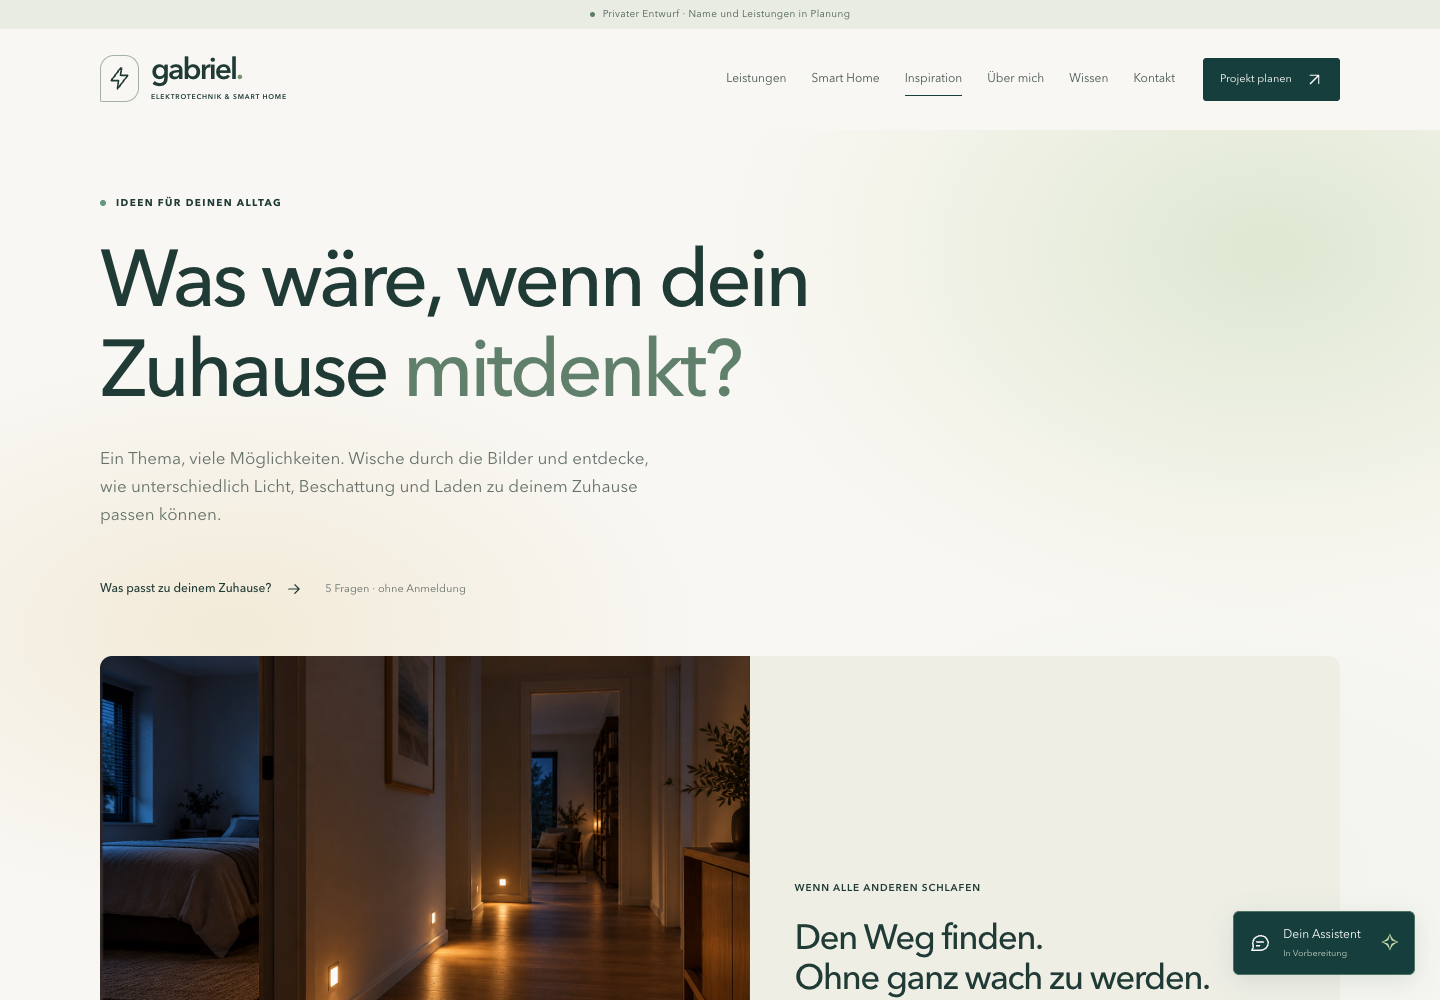
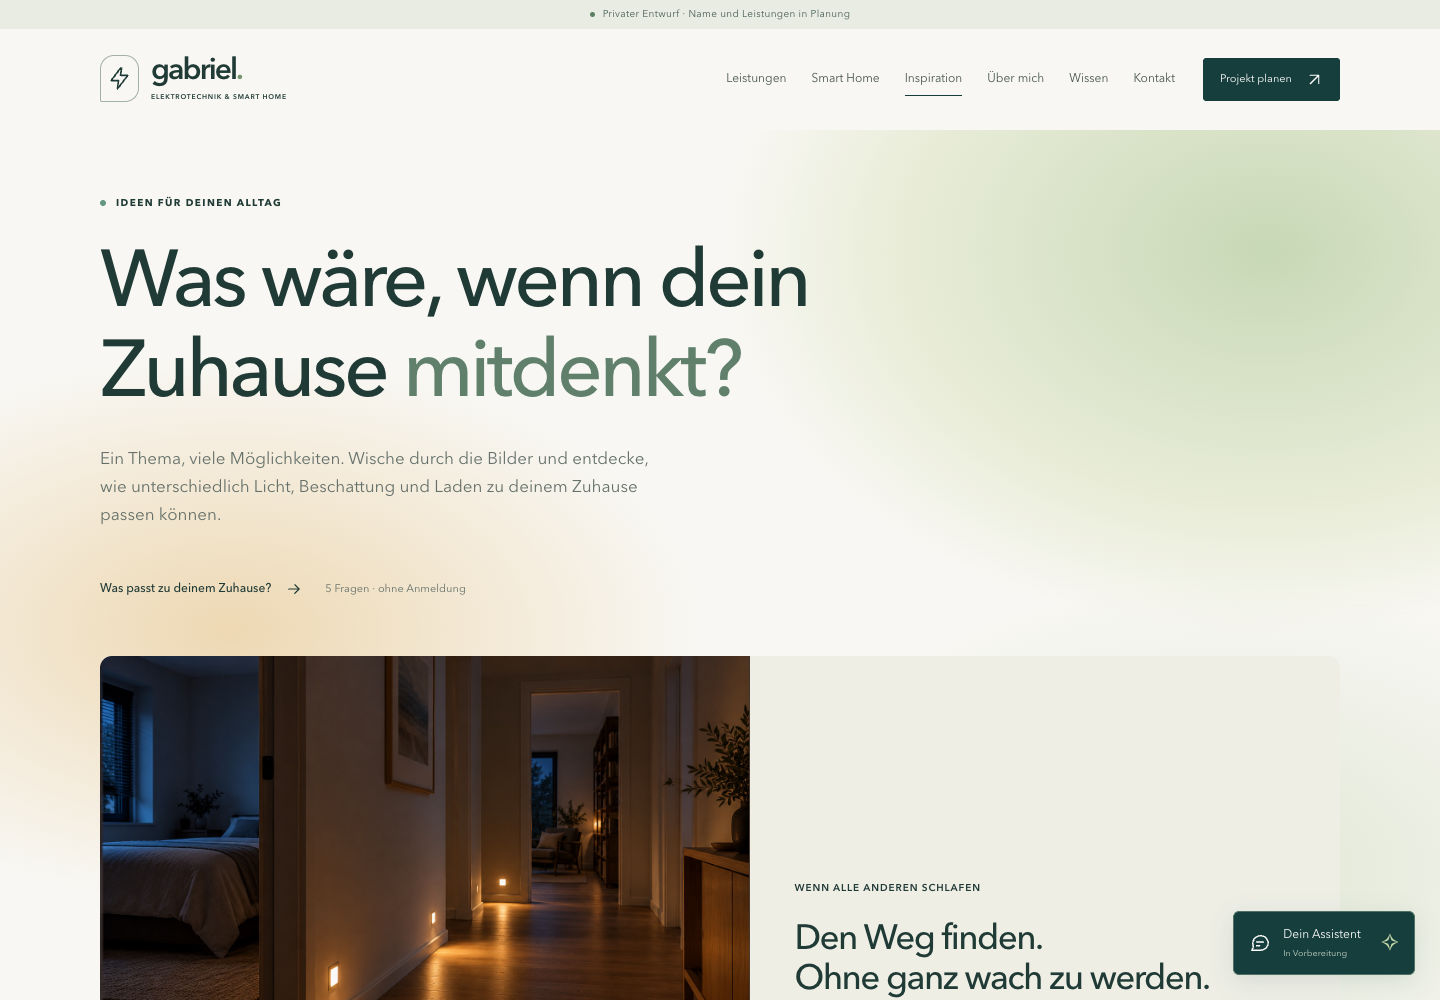
Hintergrundschein sichtbar verstaerken und warme Lichtwirkung betonen

Changed region(s): [[0.7812, 0.155, 1.0, 0.372], [0.0312, 0.527, 0.2812, 0.682]]

diff --git a/public/assets/ambience.css b/public/assets/ambience.css
@@ -11,16 +11,16 @@
   z-index: -1;
   pointer-events: none;
   background:
-    radial-gradient(ellipse 680px 480px at 88% 120px, #cbdcbb94, #e6e8cc38 56%, transparent 80%),
-    radial-gradient(ellipse 620px 360px at 16% 500px, #ecdbb773, transparent 76%),
-    radial-gradient(ellipse 600px 380px at 85% 740px, #dbe6d23b, transparent 76%);
+    radial-gradient(ellipse 680px 480px at 88% 120px, #b8cfa3c2, #d6dfb56b 56%, transparent 80%),
+    radial-gradient(ellipse 620px 360px at 16% 500px, #e7c58b9e, transparent 76%),
+    radial-gradient(ellipse 600px 380px at 85% 740px, #bfd1aa6b, transparent 76%);
 }
 @media (max-width: 700px) {
   .has-page-ambience::before {
     background:
-      radial-gradient(ellipse 390px 400px at 92% 120px, #cbdcbb8c, transparent 80%),
-      radial-gradient(ellipse 360px 310px at 3% 580px, #ecdbb773, transparent 80%),
-      radial-gradient(ellipse 350px 320px at 90% 850px, #dbe6d238, transparent 80%);
+      radial-gradient(ellipse 390px 400px at 92% 120px, #b8cfa3bd, transparent 80%),
+      radial-gradient(ellipse 360px 310px at 3% 580px, #e7c58b9e, transparent 80%),
+      radial-gradient(ellipse 350px 320px at 90% 850px, #bfd1aa67, transparent 80%);
   }
 }
 @media (prefers-reduced-motion: no-preference) {

diff --git a/docs/PROJEKTSTAND.md b/docs/PROJEKTSTAND.md
@@ -4,6 +4,8 @@ Stand: 30.10.2026 · einheitlicher Hintergrundschein auf allen Unterseiten
 
 ## Einheitlicher Hintergrundschein (30.10.2026)
 
+- Nach Gabriels Rückmeldung die zunächst zu schwache Wirkung verstärkt: sichtbareres Salbeigrün und warmes Champagnerlicht durch kräftigere Farbtöne und höhere Deckkraft auf Desktop und Mobil. Ausdehnung, Einblendung und ruhiges Verhalten bleiben erhalten. Farbkorrektur mit Build, Verweisen, Layout und aktualisierten Ansichten geprüft; kein erneuter vollständiger Browser-Testlauf nur für die Farbwerte.
+
 - Gabriels Wunsch: die sanfte Hintergrundbeleuchtung auch auf Inspiration, Über mich, Wissen und den übrigen Seiten einsetzen, damit der Auftritt zusammenpasst.
 - Zentraler warmer und salbeigrüner Lichtschein auf allen 17 Unterseiten einschließlich Leistungsdetails, Kontakt und Hinweisseiten. Die Startseite behält ihr bestehendes pausierbares Lichtspiel. Eigene Lichtebenen auf Wissen und im Planer durch den gemeinsamen Effekt ersetzt.
 - Reine CSS-Darstellung, hinter den Inhalten und ohne Einfluss auf Klicks oder Layout. Eine Einblendung von 2,8 Sekunden, danach statisch; bei reduzierter Bewegung direkt statisch. Auch ohne JavaScript sichtbar. Auf Mobil angepasste Ausdehnung, kein seitlicher Überlauf.

diff --git a/docs/HINTERGRUNDLICHT.md b/docs/HINTERGRUNDLICHT.md
@@ -2,7 +2,7 @@
 
 Stand: 30.10.2026
 
-Gabriel möchte den warmen, leicht beleuchteten Auftritt auf allen Seiten wiederfinden. Alle Unterseiten verwenden deshalb einen gemeinsamen salbeigrünen und warmen Hintergrundschein im oberen Seitenbereich. Der Schein läuft nach unten weich aus; Bilder und Karten behalten ihre eigenen Farben.
+Gabriel möchte den warmen, leicht beleuchteten Auftritt auf allen Seiten wiederfinden. Alle Unterseiten verwenden deshalb einen gemeinsamen salbeigrünen und warmen Hintergrundschein im oberen Seitenbereich. Der Schein läuft nach unten weich aus; Bilder und Karten behalten ihre eigenen Farben. Nach Gabriels Rückmeldung wurden Farbstärke und Deckkraft angehoben: erkennbareres Salbeigrün und warmes Champagnerlicht bei unverändert weichen Übergängen.
 
 `src/components.mjs` lädt auf Unterseiten `public/assets/ambience.css` und setzt `has-page-ambience` am Hauptinhalt. Dessen Pseudoelement liegt hinter den Inhalten, ist auf die Seitenbreite begrenzt und nimmt keine Zeigerereignisse an. Es gibt keine zusätzlichen Netzwerkdienste, Bilder oder Skripte für den Effekt.
 
